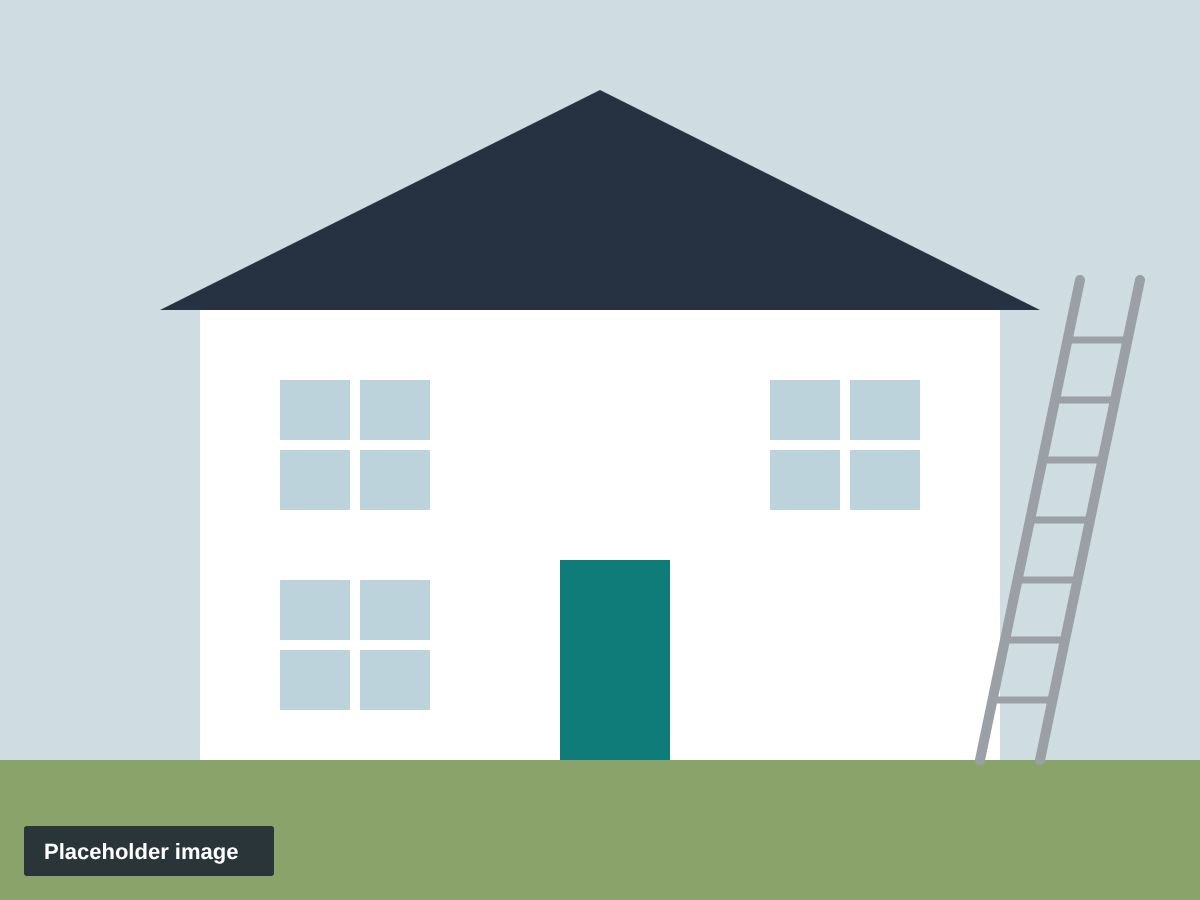
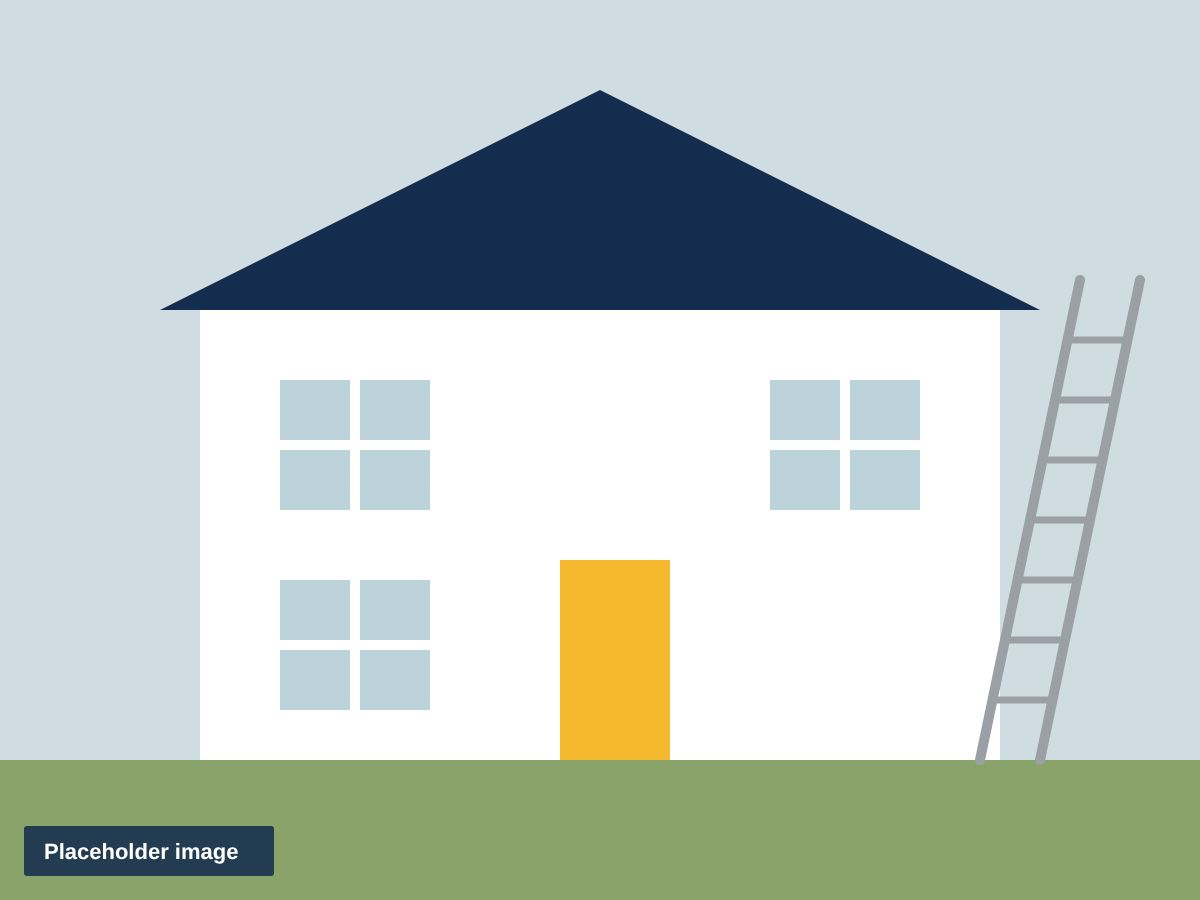
Switch to a navy and amber colour theme
Navy #142D4E for the header, banners, footer, headings and logo;
amber #F5B82E for quote buttons, the jobs strip, highlights and card
edges, with navy text on amber; cool white #F4F6F8 background and
slate #5A6675 supporting text. A deeper amber is used where amber
appears as text on white so it stays readable. Placeholder images
are redrawn to match.

Claude-Session: https://claude.ai/code/session_017Um8dBkX5FNQPcYcxfdK4v

Changed region(s): [[0.4625, 0.6222, 0.5858, 0.8711], [0.0, 0.9022, 0.2467, 0.9956]]

diff --git a/css/style.css b/css/style.css
@@ -73,7 +73,7 @@ header {
 .hero h1 { font-size: clamp(2rem, 5vw, 3.2rem); line-height: 1.15; margin: 0 0 16px; max-width: 16ch; text-wrap: balance; }
 .hero p { font-size: 1.15rem; color: #d5d8dc; max-width: 52ch; margin: 0 0 32px; }
 .hero .actions { display: flex; gap: 12px; flex-wrap: wrap; }
-.hero .eyebrow { color: #7fd3cd; font-size: .8rem; margin: 0 0 8px; }
+.hero .eyebrow { color: #f5b82e; font-size: .8rem; margin: 0 0 8px; }
 .hero.small { padding: 64px 0 56px; }
 .hero.small h1 { max-width: 24ch; }
 .hero.small p { margin-bottom: 0; }
@@ -237,7 +237,7 @@ h2 { font-size: clamp(1.6rem, 3.5vw, 2.2rem); margin: 0 0 16px; line-height: 1.2
 .find-us { background: var(--dark); color: #fff; border-radius: 14px; padding: 32px 28px; }
 .find-us h2 { color: #fff; font-size: 1.3rem; display: flex; align-items: center; gap: 10px; margin: 0 0 14px; }
 .find-us h2 svg { color: var(--accent); width: 24px; height: 24px; }
-.find-us h3 { font-size: .8rem; text-transform: uppercase; letter-spacing: .1em; color: #7fd3cd; margin: 24px 0 4px; }
+.find-us h3 { font-size: .8rem; text-transform: uppercase; letter-spacing: .1em; color: #f5b82e; margin: 24px 0 4px; }
 .find-us address, .find-us p { font-style: normal; color: #c9cdd2; margin: 0; line-height: 1.7; }
 .find-us address strong { color: #fff; }
 form.quote { display: grid; gap: 18px 20px; grid-template-columns: 1fr 1fr; }
@@ -420,7 +420,7 @@ header { background: var(--dark); border-bottom: 4px solid var(--accent); backdr
 .hero { position: relative; overflow: hidden; isolation: isolate; background: var(--dark); }
 .hero h1 { letter-spacing: 0; }
 .hero.small { padding: 56px 0 60px; }
-.crumbs { display: flex; gap: 10px; align-items: center; color: #7fd3cd; font-size: .9rem; font-weight: 700; letter-spacing: .1em; text-transform: uppercase; margin: 0 0 12px !important; }
+.crumbs { display: flex; gap: 10px; align-items: center; color: #f5b82e; font-size: .9rem; font-weight: 700; letter-spacing: .1em; text-transform: uppercase; margin: 0 0 12px !important; }
 .crumbs a { color: #c3cbd5; text-decoration: none; }
 .crumbs a:hover { color: #fff; text-decoration: underline; }
 .crumbs span { color: #8793a1; }
@@ -429,9 +429,9 @@ header { background: var(--dark); border-bottom: 4px solid var(--accent); backdr
 .hero-bg { position: absolute; inset: 0; z-index: -1; }
 .hero-bg img { width: 100%; height: 100%; object-fit: cover; opacity: .3; }
 .hero-inner { display: grid; grid-template-columns: minmax(0, 1.6fr) minmax(0, 1fr); gap: 48px; align-items: center; padding-block: 88px 80px; }
-.hero-tag { margin: 0 0 14px !important; font-size: .9rem !important; font-weight: 700; letter-spacing: .14em; text-transform: uppercase; color: #7fd3cd !important; }
+.hero-tag { margin: 0 0 14px !important; font-size: .9rem !important; font-weight: 700; letter-spacing: .14em; text-transform: uppercase; color: #f5b82e !important; }
 .home-hero h1 { font-size: clamp(2.4rem, 5.6vw, 4rem); line-height: 1.08; max-width: 14ch; margin-bottom: 20px; }
-.home-hero h1 em { font-style: normal; color: #7fd3cd; }
+.home-hero h1 em { font-style: normal; color: #f5b82e; }
 .hero-trust { list-style: none; margin: 0; padding: 0; display: grid; gap: 0; border-left: 4px solid var(--accent); }
 .hero-trust li { padding: 14px 0 14px 22px; display: grid; gap: 2px; }
 .hero-trust li + li { border-top: 1px solid rgba(255,255,255,.12); }
@@ -468,7 +468,7 @@ footer .btn:hover { text-decoration: none; }
 @media (max-width: 760px) {
   .menu { background: var(--dark-2); border-bottom: 4px solid var(--accent); top: 76px; }
   .menu a { border-bottom-color: rgba(255,255,255,.1); }
-  .menu a[aria-current="page"] { color: #7fd3cd; border-bottom-color: rgba(255,255,255,.1); }
+  .menu a[aria-current="page"] { color: #f5b82e; border-bottom-color: rgba(255,255,255,.1); }
 }
 @media (max-width: 480px) {
   .logo .word { font-size: 1.1rem; }
@@ -517,3 +517,38 @@ footer .btn:hover { text-decoration: none; }
 .signpost span { margin-top: auto; padding-top: 10px; color: var(--accent); font-weight: 700; }
 .signpost span::after { content: " \2192"; }
 .signpost:hover span { text-decoration: underline; }
+
+
+/* ---------- Navy & amber theme ---------- */
+:root {
+  --ink: #142d4e;
+  --muted: #5a6675;
+  --bg: #f4f6f8;
+  --card: #ffffff;
+  --line: #dde2e8;
+  --dark: #142d4e;
+  --dark-2: #1c3a61;
+  --accent: #f5b82e;
+  --accent-dark: #e3a514;
+  --accent-soft: #fdf1d6;
+  --accent-ink: #94650a;   /* amber dark enough to read as text on white */
+}
+body { color: #1f2a37; }
+h1, h2, h3 { color: var(--ink); }
+.hero h1, .hero h2, .contact-box h2, .find-us h2, footer h2, .hero-trust strong { color: #fff; }
+
+/* Amber surfaces carry navy text, as white on amber is hard to read */
+.btn, footer .btn, .logo .mark, .strip li, .steps li::before, .ba-tag-after, ::selection { color: var(--dark); }
+.btn:hover { background: var(--accent-dark); }
+.btn.ghost { color: #fff; }
+.btn.ghost:hover { color: var(--dark); background: #fff; }
+.btn.outline { color: var(--accent-ink); border-color: var(--accent); }
+.btn.outline:hover { background: var(--accent-soft); }
+.strip li + li { border-left-color: rgba(20,45,78,.35); }
+
+/* Amber used as text or icons on light backgrounds uses the deeper shade */
+main .eyebrow, .card .more, .signpost span, .checklist li::before, .stars, .car-btn:hover, .lb-btn:hover,
+.card .icon, .service h2 .icon, .quick svg, .contact-list svg { color: var(--accent-ink); }
+.hero .eyebrow, .contact-box .eyebrow, .find-us h2 svg, .find-us h3, .crumbs, .hero-tag { color: var(--accent) !important; }
+.note { color: #6b4a06; }
+@media (max-width: 760px) { .menu a[aria-current="page"] { color: var(--accent); } }

diff --git a/contact.html b/contact.html
@@ -8,7 +8,7 @@
   <link rel="preconnect" href="https://fonts.googleapis.com">
   <link rel="preconnect" href="https://fonts.gstatic.com" crossorigin>
   <link rel="stylesheet" href="https://fonts.googleapis.com/css2?family=Zilla+Slab:wght@500;600;700&family=Source+Sans+3:wght@400;600;700&display=swap">
-  <link rel="stylesheet" href="css/style.css?v=2b75e587">
+  <link rel="stylesheet" href="css/style.css?v=45f34a15">
 </head>
 <body id="top">
 

diff --git a/gallery.html b/gallery.html
@@ -8,7 +8,7 @@
   <link rel="preconnect" href="https://fonts.googleapis.com">
   <link rel="preconnect" href="https://fonts.gstatic.com" crossorigin>
   <link rel="stylesheet" href="https://fonts.googleapis.com/css2?family=Zilla+Slab:wght@500;600;700&family=Source+Sans+3:wght@400;600;700&display=swap">
-  <link rel="stylesheet" href="css/style.css?v=2b75e587">
+  <link rel="stylesheet" href="css/style.css?v=45f34a15">
 </head>
 <body id="top">
 

diff --git a/index.html b/index.html
@@ -8,7 +8,7 @@
   <link rel="preconnect" href="https://fonts.googleapis.com">
   <link rel="preconnect" href="https://fonts.gstatic.com" crossorigin>
   <link rel="stylesheet" href="https://fonts.googleapis.com/css2?family=Zilla+Slab:wght@500;600;700&family=Source+Sans+3:wght@400;600;700&display=swap">
-  <link rel="stylesheet" href="css/style.css?v=2b75e587">
+  <link rel="stylesheet" href="css/style.css?v=45f34a15">
 </head>
 <body id="top">
 

diff --git a/reviews.html b/reviews.html
@@ -8,7 +8,7 @@
   <link rel="preconnect" href="https://fonts.googleapis.com">
   <link rel="preconnect" href="https://fonts.gstatic.com" crossorigin>
   <link rel="stylesheet" href="https://fonts.googleapis.com/css2?family=Zilla+Slab:wght@500;600;700&family=Source+Sans+3:wght@400;600;700&display=swap">
-  <link rel="stylesheet" href="css/style.css?v=2b75e587">
+  <link rel="stylesheet" href="css/style.css?v=45f34a15">
 </head>
 <body id="top">
 

diff --git a/services.html b/services.html
@@ -8,7 +8,7 @@
   <link rel="preconnect" href="https://fonts.googleapis.com">
   <link rel="preconnect" href="https://fonts.gstatic.com" crossorigin>
   <link rel="stylesheet" href="https://fonts.googleapis.com/css2?family=Zilla+Slab:wght@500;600;700&family=Source+Sans+3:wght@400;600;700&display=swap">
-  <link rel="stylesheet" href="css/style.css?v=2b75e587">
+  <link rel="stylesheet" href="css/style.css?v=45f34a15">
 </head>
 <body id="top">
 
